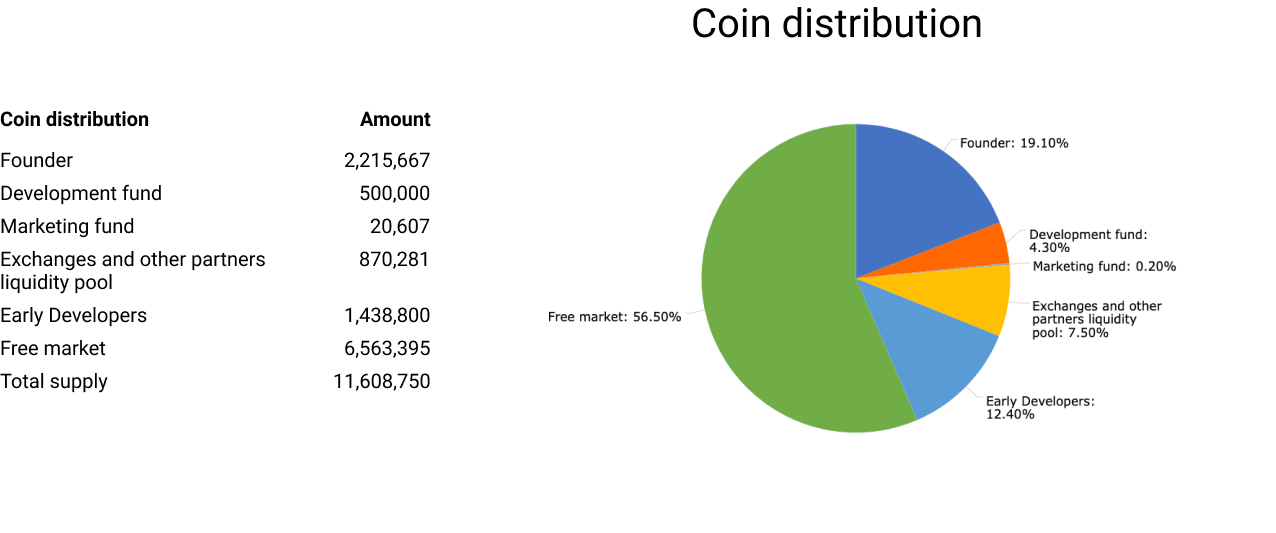
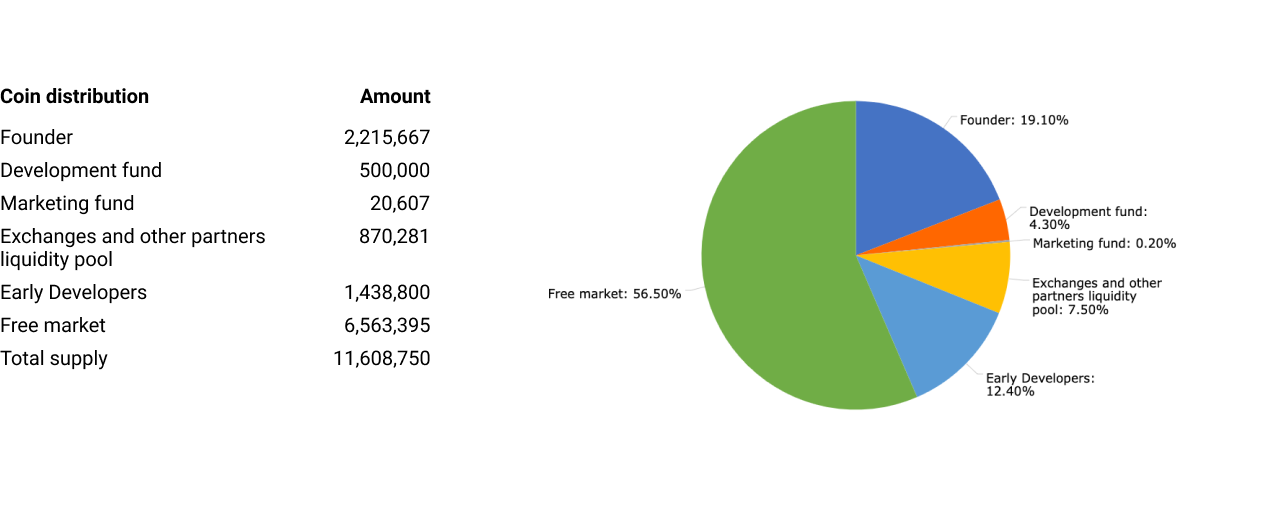
fix: remove chart title and add headline text and refresh richestwallets (#22) (#23)
* fix: remove chart title and add headline text (#22)

* fix: correct richest wallets refresh

* fix: add redis cache

diff --git a/app/utils.js b/app/utils.js
@@ -62,6 +62,32 @@ var ipCache = {
 	}
 };
 
+var richestWalletsCache = {
+	get:function() {
+		return new Promise(function(resolve, reject) {
+
+			if (redisCache.active) {
+				redisCache.get("richestWallets").then(function(redisResult) {
+					if (redisResult != null) {
+						resolve(redisResult);
+
+						return;
+					}
+
+					resolve(null);
+				});
+
+			} else {
+				resolve(null);
+			}
+		});
+	},
+	set:function(value, expirationMillis) {
+		if (redisCache.active) {
+			redisCache.set("richestWallets", value, expirationMillis);
+		}
+	}
+};
 
 
 function redirectToConnectPageIfNeeded(req, res) {
@@ -522,15 +548,25 @@ function refreshMiningPoolsData() {
 }
 
 function getRichestWallets() {
-	request.get(process.env.BTCEXP_API_URL + "/richestwallets?limit=100", function(error, response, body) {
-		if (error == null && response && response.statusCode && response.statusCode == 200) {
-			var responseBody = JSON.parse(body);
-			global.richestWallets = responseBody;
-			debugLog("Got richest wallet data: " + global.richestWallets);
-		} else {
-			logError("39r7h2390fgewfgds", {error:error, response:response, body:body});
-		}
-	});
+	const REDIS_EXPIRATION_INTERVAL = 1000 * 60;
+	return new Promise(function(resolve, reject) {
+		richestWalletsCache.get().then(function(result) {
+			if (result == null) {
+				request.get(process.env.BTCEXP_API_URL + "/richestwallets?limit=100", function(error, response, body) {
+					if (error == null && response && response.statusCode && response.statusCode == 200) {
+						var responseBody = JSON.parse(body);
+						richestWalletsCache.set(JSON.stringify(responseBody), REDIS_EXPIRATION_INTERVAL);
+						resolve(responseBody);
+					} else {
+						logError("rich wallets error", {error:error, response:response, body:body});
+						reject(error);
+					}
+				});
+			} else {
+				richestWalletsCache.get().then((result) => resolve(JSON.parse(result)))
+			}
+		}).catch(error => reject(error));
+	})
 }
 
 // Uses ipstack.com API

diff --git a/routes/baseActionsRouter.js b/routes/baseActionsRouter.js
@@ -1209,13 +1209,13 @@ router.get("/fun", function(req, res, next) {
 });
 
 router.get("/richest-wallets", function(req, res, next) {
-	var richestWallets = global.richestWallets;
+	utils.getRichestWallets().then(function(results) {
+		global.richestWallets = results;
 
-	res.locals.richestWallets = richestWallets;
+		res.render("richest-wallets");
 
-	res.render("richest-wallets");
-
-	next();
+		next();
+	});
 });
 
 router.get("/coin-distribution", function(req, res, next) {

diff --git a/app.js b/app.js
@@ -261,10 +261,6 @@ app.runOnStartup = function() {
 		utils.refreshMiningPoolsData();
 	}
 
-	if (!global.richestWallets) {
-		utils.getRichestWallets();
-	}
-
 	// refresh exchange rate periodically
 	setInterval(utils.refreshExchangeRates, 60000);
 	setInterval(utils.refreshCoinSupply, 60000);
